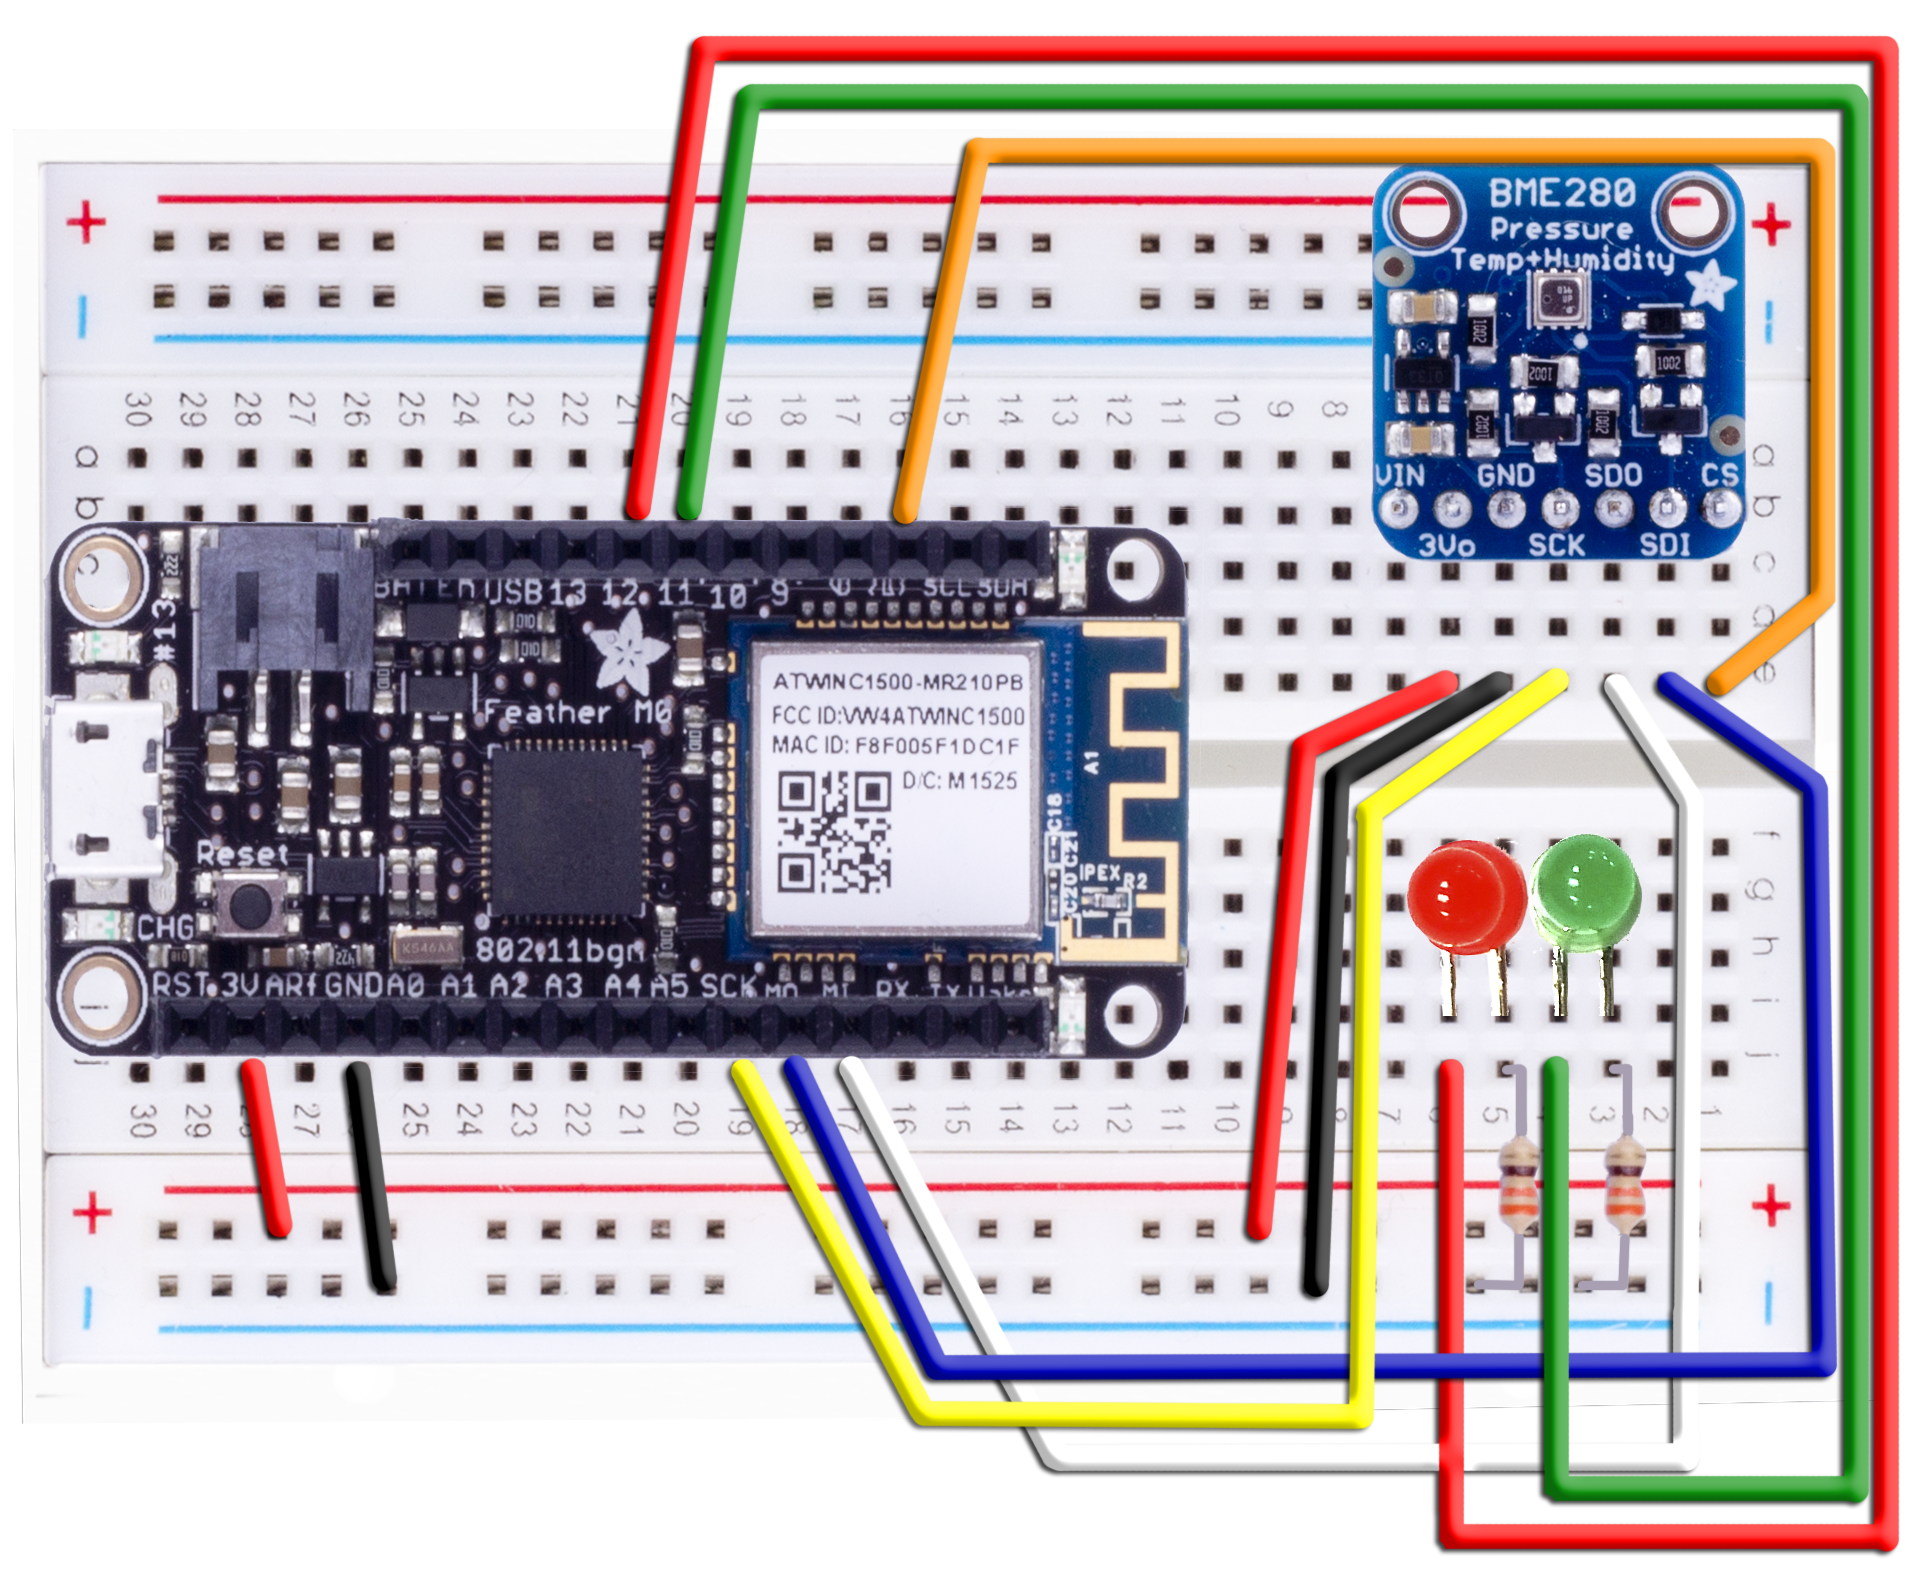
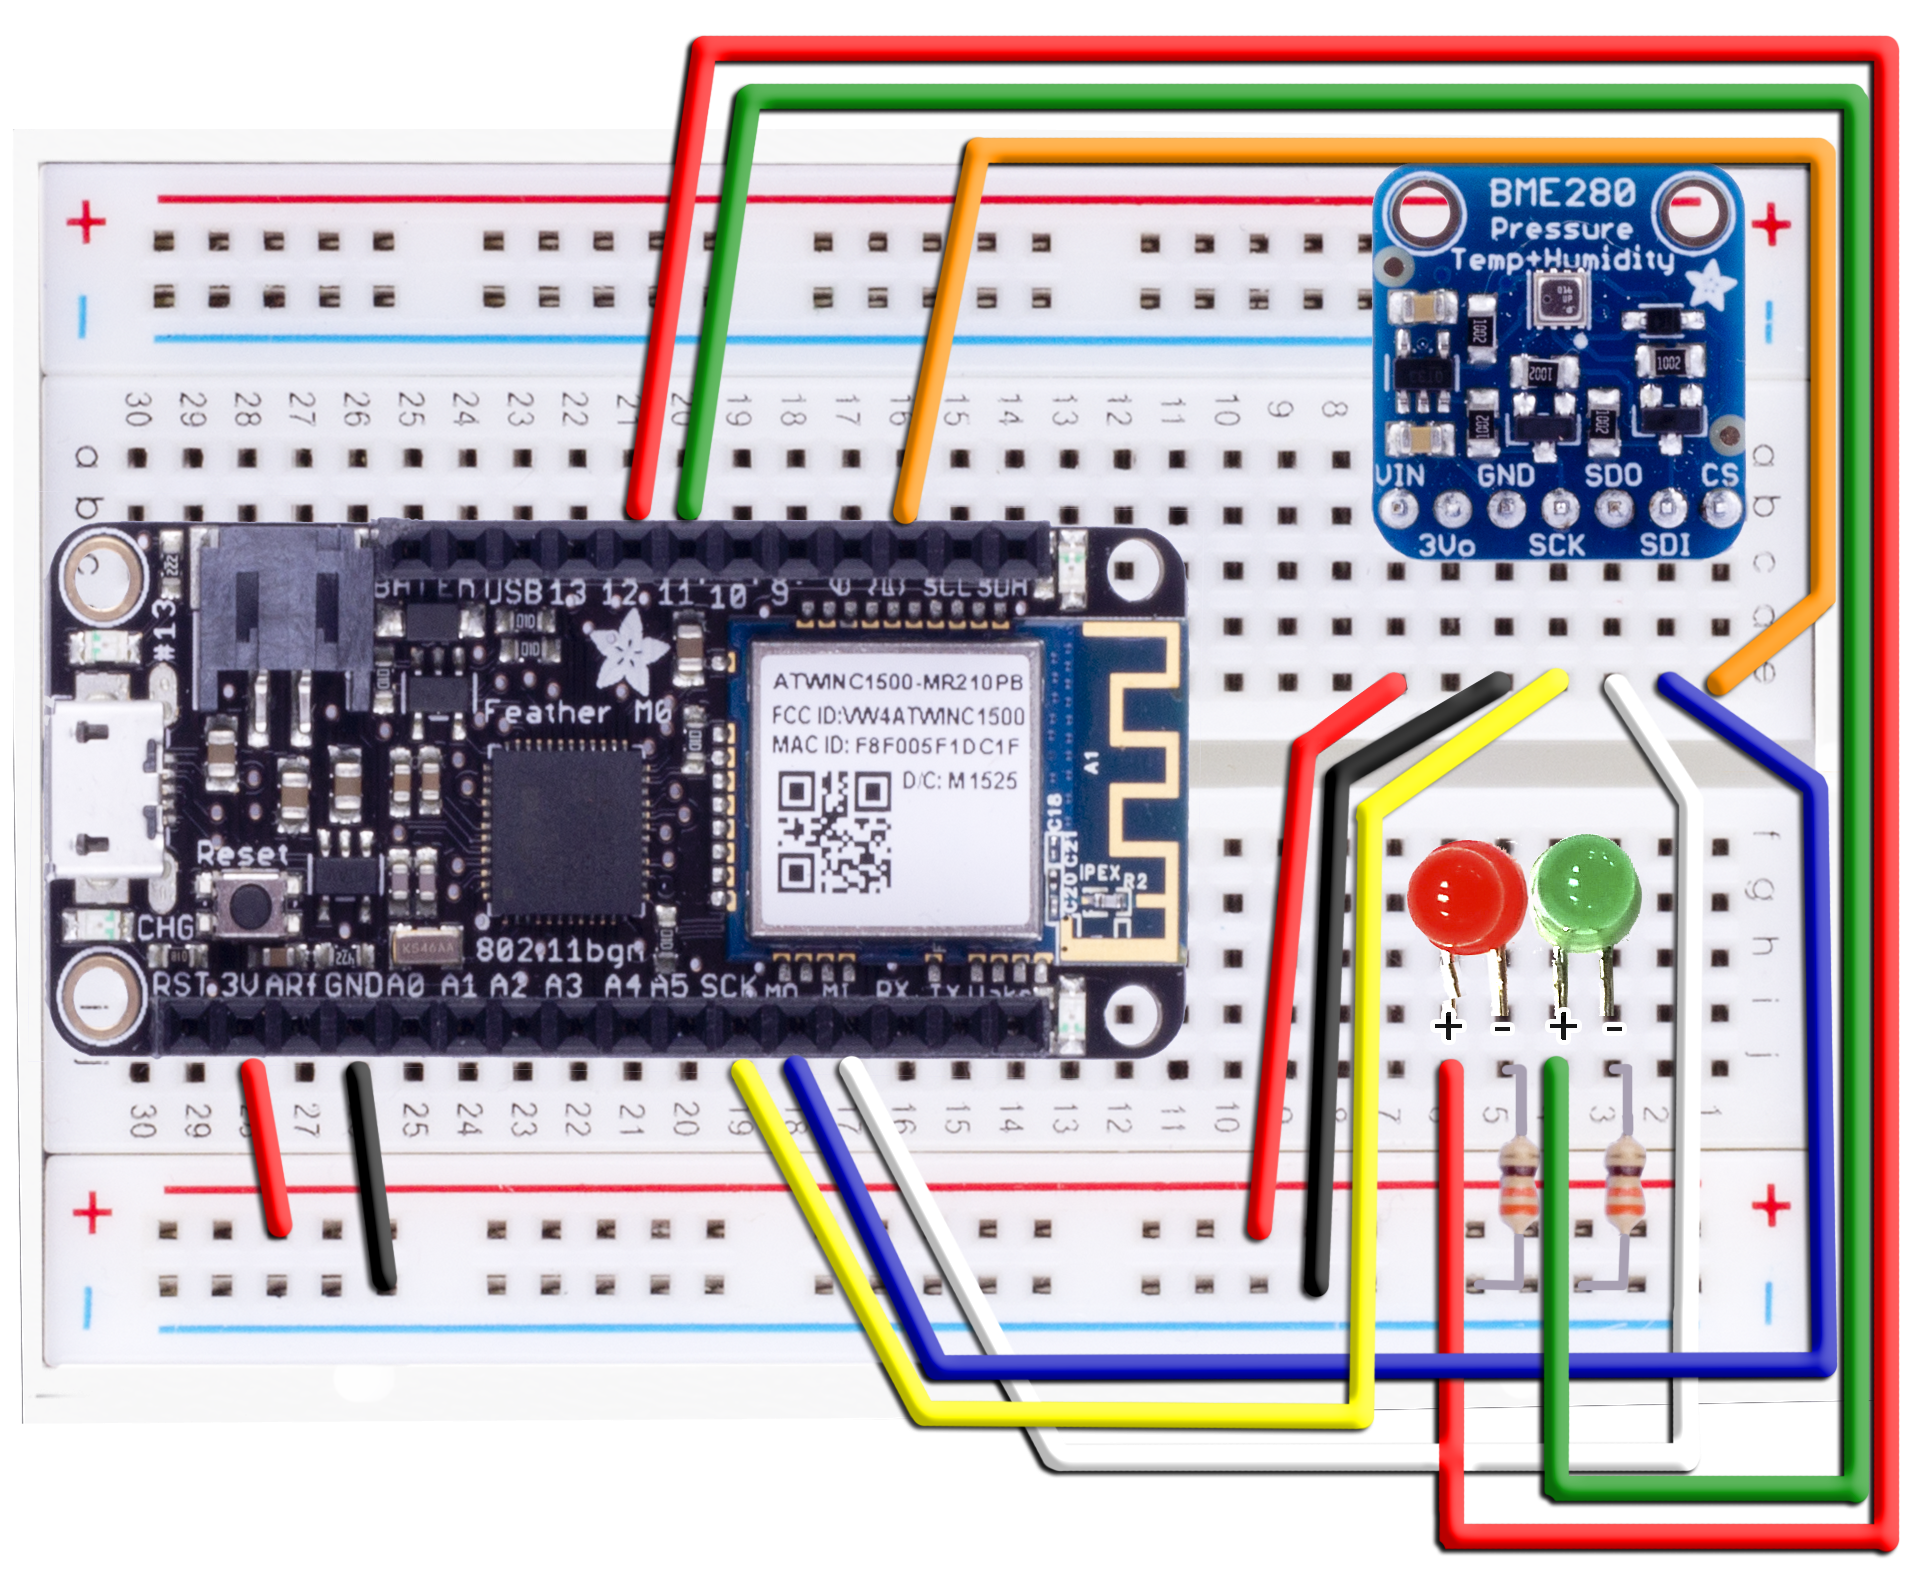
Added information regarding LEDs.

diff --git a/README.md b/README.md
@@ -119,7 +119,7 @@ In this tutorial, you'll be doing the following:
 | ----------------------- | ---------------------- | ------------: |
 | B7                      | B1                     | BME280        |
 
-- For more information, see: [Adafruit BME280 sensor setup](https://learn.adafruit.com/adafruit-bme280-humidity-barometric-pressure-temperature-sensor-breakout/wiring-and-test).
+- For more information regarding the sensor, see: [Adafruit BME280 sensor setup](https://learn.adafruit.com/adafruit-bme280-humidity-barometric-pressure-temperature-sensor-breakout/wiring-and-test)
 
 **At the end of your work, your Feather M0 WiFi should be connected to the sensor. We'll test it in the next sections.**
 
@@ -127,9 +127,9 @@ In this tutorial, you'll be doing the following:
 
 You will need to install the Feather M0 WiFi board extension for the Arduino IDE. This takes two steps:
 
-1) Follow the instructions here: https://learn.adafruit.com/adafruit-feather-m0-wifi-atwinc1500/setup. There you will see how to add a URL pointing to Adafruit's repository of board extensions. 
+1) Follow the instructions here: [https://learn.adafruit.com/adafruit-feather-m0-wifi-atwinc1500/setup](https://learn.adafruit.com/adafruit-feather-m0-wifi-atwinc1500/setup). There you will see how to add a URL pointing to Adafruit's repository of board extensions. 
 
-2) Then continue with https://learn.adafruit.com/adafruit-feather-m0-wifi-atwinc1500/using-with-arduino-ide, and see how to make the Feather M0 WiFi board selectable under the **Tools** menu, and how to get the Blink sketch to run.
+2) Then continue with [https://learn.adafruit.com/adafruit-feather-m0-wifi-atwinc1500/using-with-arduino-ide](https://learn.adafruit.com/adafruit-feather-m0-wifi-atwinc1500/using-with-arduino-ide), and see how to make the Feather M0 WiFi board selectable under the **Tools** menu, and how to get the Blink sketch to run.
  - If you have issues uploading to the Feather M0, click the RST button twice (double-click) to get back into the bootloader.
 
 ## 1.6 Install Library Dependencies
@@ -285,7 +285,8 @@ This tutorial has the following steps:
 | Pin 3J                  | Pin 3-                 | 330 Ohm       |
 | Pin 5J                  | Pin 5-                 | 330 Ohm       |
 
-- For more information, see: [Adafruit BME280 sensor setup](https://learn.adafruit.com/adafruit-bme280-humidity-barometric-pressure-temperature-sensor-breakout/wiring-and-test).
+- For more information, see: [Adafruit BME280 sensor setup](https://learn.adafruit.com/adafruit-bme280-humidity-barometric-pressure-temperature-sensor-breakout/wiring-and-test)
+- For more information regarding LEDs, see the following article: [Light-emitting Diodes]
 
 **At the end of your work, your Feather M0 WiFi should be connected with a working sensor. We'll test it in the next sections.**
 
